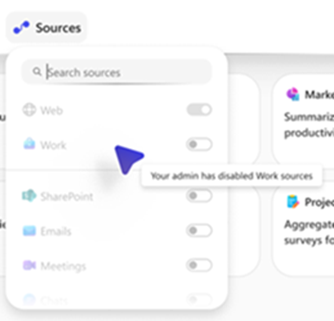
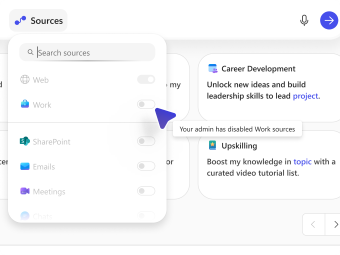
Replace blurry image for Researcher CUA
Replacing a blurry image, fixing metadata title, and removing 'en-us' from SMC article URL

diff --git a/copilot/researcher-agent-computer-use.md b/copilot/researcher-agent-computer-use.md
@@ -1,6 +1,6 @@
 ---
-title: Researcher agent with Computer Use setup in Microsoft 365 Copilot
-description: The following instructions help you configure the admin settings for Researcher agent Computer Use in Microsoft 365 copilot.
+title: Researcher with Computer Use admin configuration
+description: The following instructions help you configure the admin settings for the Researcher agent with Computer Use in Microsoft 365 Copilot.
 f1.keywords:
 - NOCSH
 ms.author: vpattnaik
@@ -24,7 +24,7 @@ appliesto:
 
 ## Overview
 
-Researcher with Computer Use is a powerful extension that builds on the capabilities of the Researcher agent. With Computer Use, Researcher agent can securely interact with public, gated, and interactive web content through virtual computer-enabling users to uncover deeper insights, take action, and generate richer reports grounded in both their work data and the web. For more details, see [Use Researcher with Computer use in Microsoft 365 Copilot](https://support.microsoft.com/en-us/topic/1f274537-6648-46e8-8264-052a49b92af4).
+Researcher with Computer Use is a powerful extension that builds on the capabilities of the Researcher agent. With Computer Use, Researcher agent can securely interact with public, gated, and interactive web content through virtual computer-enabling users to uncover deeper insights, take action, and generate richer reports grounded in both their work data and the web. For more details, see [Use Researcher with Computer use in Microsoft 365 Copilot](https://support.microsoft.com/topic/1f274537-6648-46e8-8264-052a49b92af4).
 
 :::image type="content" source="media/computer-use-active-option.png" alt-text="Screenshot showing the computer use option active in Researcher agent." lightbox="media/computer-use-active-option.png":::
 
@@ -77,6 +77,6 @@ Follow these instructions to configure admin settings for Researcher agent with 
 
 ### Learn more about Researcher with Computer Use
 
-- [Introducing Researcher with Computer Use in Microsoft 365 Copilot](https://support.microsoft.com/en-us/topic/1f274537-6648-46e8-8264-052a49b92af4)
-- [Getting started: Researcher with Computer Use](https://techcommunity.microsoft.com/blog/microsoft365copilotblog/introducing-researcher-with-computer-use-in-microsoft-365-copilot/4464766)
+- [Introducing Researcher with Computer Use in Microsoft 365 Copilot](https://techcommunity.microsoft.com/blog/microsoft365copilotblog/introducing-researcher-with-computer-use-in-microsoft-365-copilot/4464766)
+- [Get started using Researcher with Computer Use](https://support.microsoft.com/topic/1f274537-6648-46e8-8264-052a49b92af4)
 - [Frequently asked questions for Researcher with Computer Use](researcher-agent-computer-use-faq.yml)
